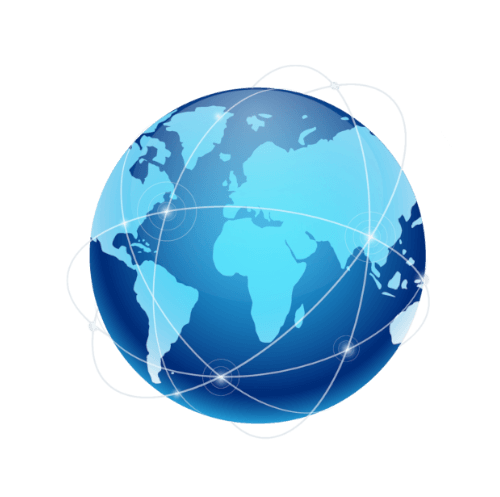
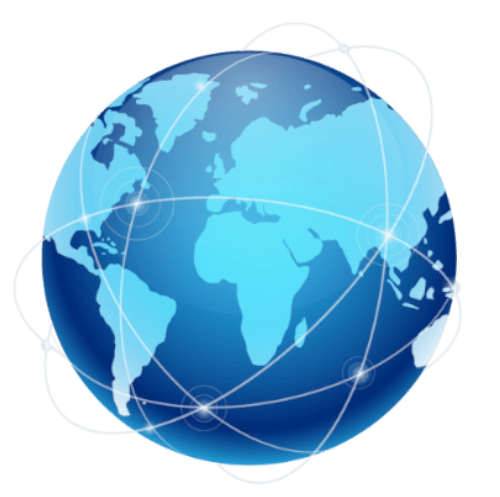
globe edit

diff --git a/src/components/imgContent01/img-content01.scss b/src/components/imgContent01/img-content01.scss
@@ -21,7 +21,7 @@
 }
 
 .description1-img {
-  width: 330px;
+  width: 280px;
 }
 
 .wrapreverse01 {
